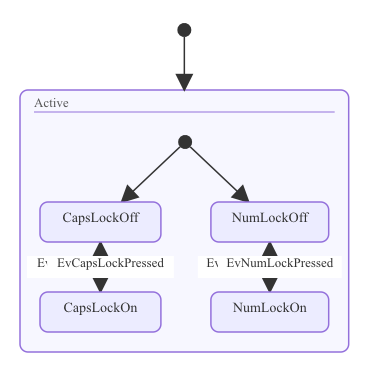
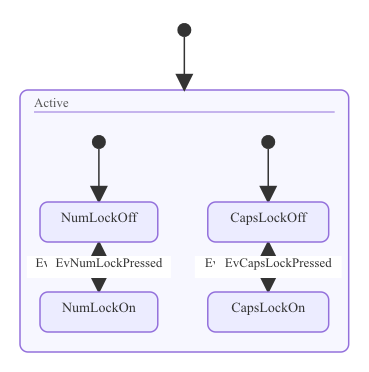
state: per-region [*] dedup for parallel composites
The 77b89c2 per-scope `[*]` dedup over-collapsed transitions inside
multi-region composites. With

    state Active {
        [*] --> NumLockOff
        --
        [*] --> CapsLockOff
        --
        [*] --> ScrollLockOff
    }

all three `[*]`s share the `Active` scope, so a single cached pseudo
fanned out to all three LockOff states — Mermaid renders three
distinct start dots, one per region.

Add StateTransition.RegionIdx, populated by parseCompositeBody as it
increments past each `--` separator. layoutScope keys its pseudo
cache off (scope, regionIdx) instead of scope alone, so concurrent
regions each get their own initial and final pseudo while non-region
composites still dedupe down to one.

Regenerates concurrent.svg/png and concurrent_three.svg/png.

All 2393 tests pass, lint clean.

diff --git a/pkg/parser/state/parser.go b/pkg/parser/state/parser.go
@@ -44,7 +44,7 @@ func Parse(r io.Reader) (*diagram.StateDiagram, error) {
 			headerSeen = true
 			continue
 		}
-		if err := p.parseLine(line, &p.diagram.States, ""); err != nil {
+		if err := p.parseLine(line, &p.diagram.States, "", 0); err != nil {
 			return nil, fmt.Errorf("line %d: %w", p.lineNum, err)
 		}
 	}
@@ -78,7 +78,7 @@ func upsertState(target *[]diagram.StateDef, id string) *diagram.StateDef {
 	return &(*target)[len(*target)-1]
 }
 
-func (p *parser) parseLine(line string, target *[]diagram.StateDef, scope string) error {
+func (p *parser) parseLine(line string, target *[]diagram.StateDef, scope string, regionIdx int) error {
 	// Keyword-prefixed lines win over bare-id matchers (Mermaid
 	// convention): `title : foo` is the diagram title, never a
 	// state-with-description for a state named "title".
@@ -110,7 +110,7 @@ func (p *parser) parseLine(line string, target *[]diagram.StateDef, scope string
 		return p.parseLinkOrCallback(line, true)
 	}
 	if rest, ok := strings.CutPrefix(line, "state "); ok {
-		return p.parseStateDecl(strings.TrimSpace(rest), target, scope)
+		return p.parseStateDecl(strings.TrimSpace(rest), target, scope, regionIdx)
 	}
 	if strings.HasPrefix(line, "note ") {
 		return p.parseNote(line, target)
@@ -141,6 +141,7 @@ func (p *parser) parseLine(line string, target *[]diagram.StateDef, scope string
 			toState.CSSClasses = append(toState.CSSClasses, toCSS)
 		}
 		t.Scope = scope
+		t.RegionIdx = regionIdx
 		p.diagram.Transitions = append(p.diagram.Transitions, t)
 		return nil
 	}
@@ -434,7 +435,7 @@ func parseStateDescription(line string) (id, desc string, ok bool) {
 	return id, strings.TrimSpace(line[colon+1:]), true
 }
 
-func (p *parser) parseStateDecl(rest string, target *[]diagram.StateDef, scope string) error {
+func (p *parser) parseStateDecl(rest string, target *[]diagram.StateDef, scope string, regionIdx int) error {
 	var label, id string
 	var after string
 	cssClass := ""
@@ -509,7 +510,7 @@ func (p *parser) parseStateDecl(rest string, target *[]diagram.StateDef, scope s
 		s.CSSClasses = append(s.CSSClasses, cssClass)
 	}
 
-	_ = scope // scope of the declaration itself is not currently needed; child transitions get s.ID as their scope via parseCompositeBody.
+	_, _ = scope, regionIdx // declaration scope/region aren't needed here; child transitions get their own scope via parseCompositeBody.
 	after = strings.TrimSpace(after)
 	if after == "{" || strings.HasPrefix(after, "{") {
 		return p.parseCompositeBody(s)
@@ -557,6 +558,7 @@ func splitStateIDAndTail(s string) (id, tail string) {
 func (p *parser) parseCompositeBody(parent *diagram.StateDef) error {
 	target := &parent.Children
 	regionStart := 0
+	regionIdx := 0
 	hasSeparator := false
 	for p.scanner.Scan() {
 		p.lineNum++
@@ -577,10 +579,11 @@ func (p *parser) parseCompositeBody(parent *diagram.StateDef) error {
 			region := append([]diagram.StateDef(nil), (*target)[regionStart:]...)
 			parent.Regions = append(parent.Regions, region)
 			regionStart = len(*target)
+			regionIdx++
 			hasSeparator = true
 			continue
 		}
-		if err := p.parseLine(line, target, parent.ID); err != nil {
+		if err := p.parseLine(line, target, parent.ID, regionIdx); err != nil {
 			return err
 		}
 	}

diff --git a/pkg/renderer/state/scoped_layout.go b/pkg/renderer/state/scoped_layout.go
@@ -138,28 +138,33 @@ func layoutScope(
 	}
 
 	// 3. Pseudo-state nodes + transition edges for this scope.
-	// Mermaid treats every `[*]` reference within the same scope as
-	// the same conceptual node: N transitions like `Still --> [*]`
-	// and `Crash --> [*]` all converge on a single end glyph. We
-	// cache one start and one end pseudo per scope and reuse them
-	// across every transition that references `[*]`.
-	var startID, endID string
+	// Mermaid treats every `[*]` reference within the same scope AND
+	// region as one conceptual node: N transitions like `Still --> [*]`
+	// and `Crash --> [*]` all converge on a single end glyph. Parallel
+	// regions (separated by `--`) each get their own initial and final
+	// pseudo, so the dedup key is (scope, regionIdx).
+	startByRegion := make(map[int]string)
+	endByRegion := make(map[int]string)
 	for i, t := range allTransitions {
 		if t.Scope != scope {
 			continue
 		}
 		from, to := t.From, t.To
 		if from == "[*]" {
-			if startID == "" {
-				startID = out.registerPseudo(g, pseudoStart, scope, 1, i)
+			id, ok := startByRegion[t.RegionIdx]
+			if !ok {
+				id = out.registerPseudo(g, pseudoStart, scope, t.RegionIdx+1, i)
+				startByRegion[t.RegionIdx] = id
 			}
-			from = startID
+			from = id
 		}
 		if to == "[*]" {
-			if endID == "" {
-				endID = out.registerPseudo(g, pseudoEnd, scope, 1, i)
+			id, ok := endByRegion[t.RegionIdx]
+			if !ok {
+				id = out.registerPseudo(g, pseudoEnd, scope, t.RegionIdx+1, i)
+				endByRegion[t.RegionIdx] = id
 			}
-			to = endID
+			to = id
 		}
 		g.SetEdge(from, to, graph.EdgeAttrs{Label: t.Label})
 	}

diff --git a/pkg/diagram/state.go b/pkg/diagram/state.go
@@ -44,6 +44,15 @@ type StateTransition struct {
 	// inside `state Bar { … }` denotes the initial state of Bar, not
 	// of the root diagram.
 	Scope string
+	// RegionIdx distinguishes parallel regions within Scope. When the
+	// enclosing composite has no `--` separators, RegionIdx is 0 for
+	// every transition. With separators, transitions before the first
+	// `--` are region 0, between the first and second `--` are
+	// region 1, and so on. Mermaid scopes `[*]` per region (each
+	// region gets its own initial / final state), so the renderer
+	// keys pseudo-state dedup off (Scope, RegionIdx) rather than
+	// Scope alone.
+	RegionIdx int
 }
 
 // NoteSide is which side of the target state a note is anchored on.
